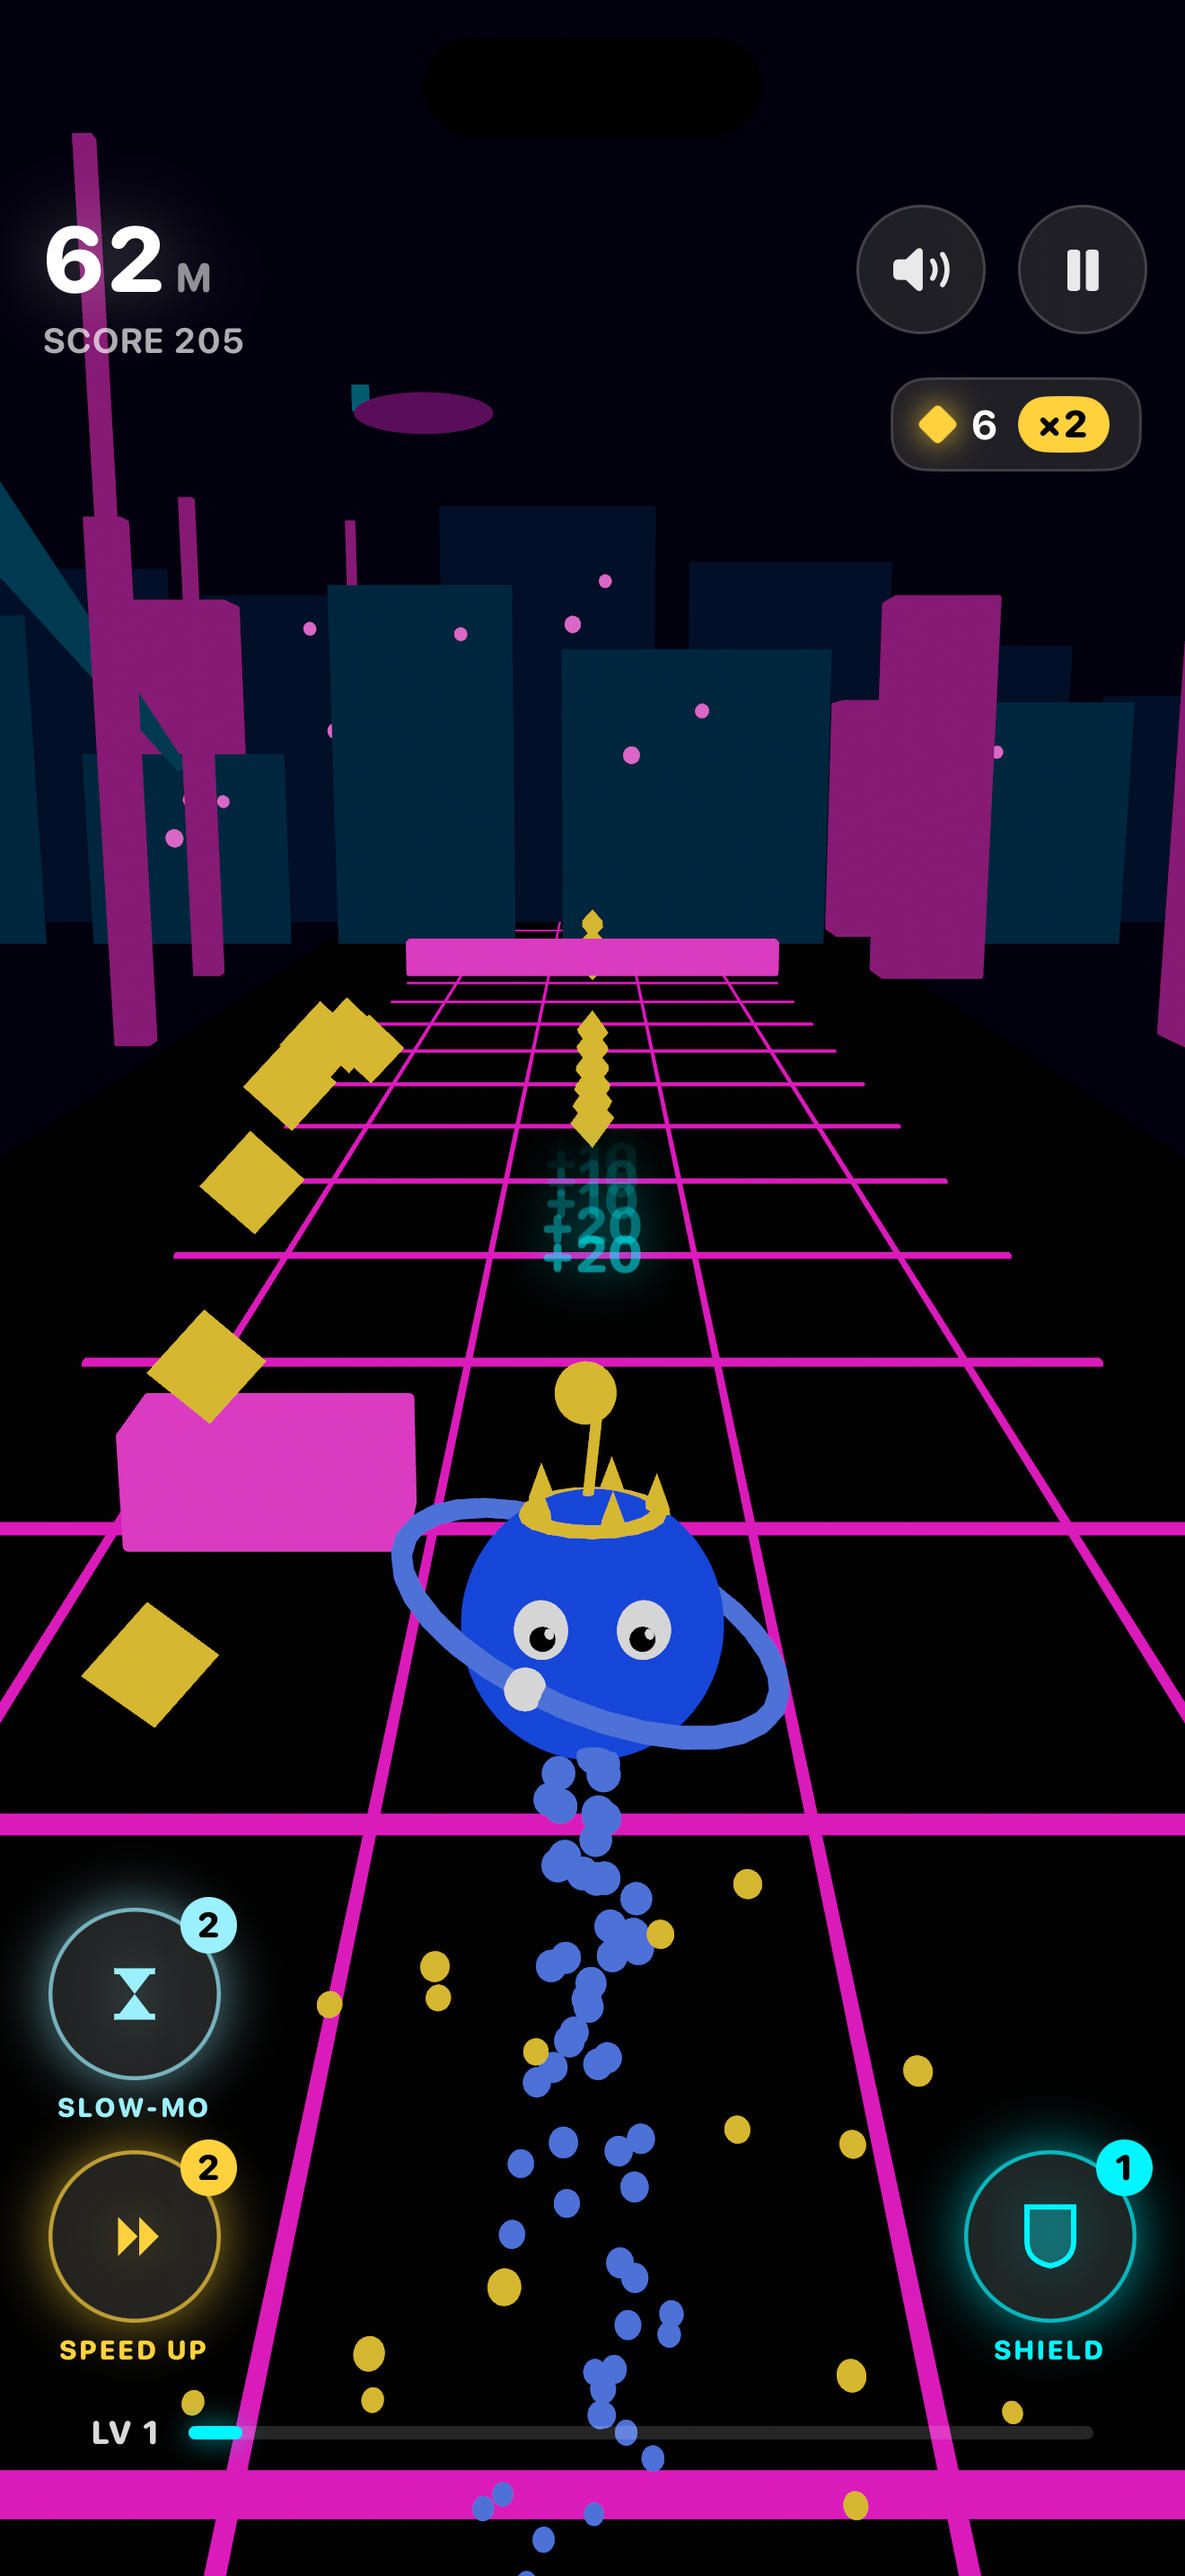
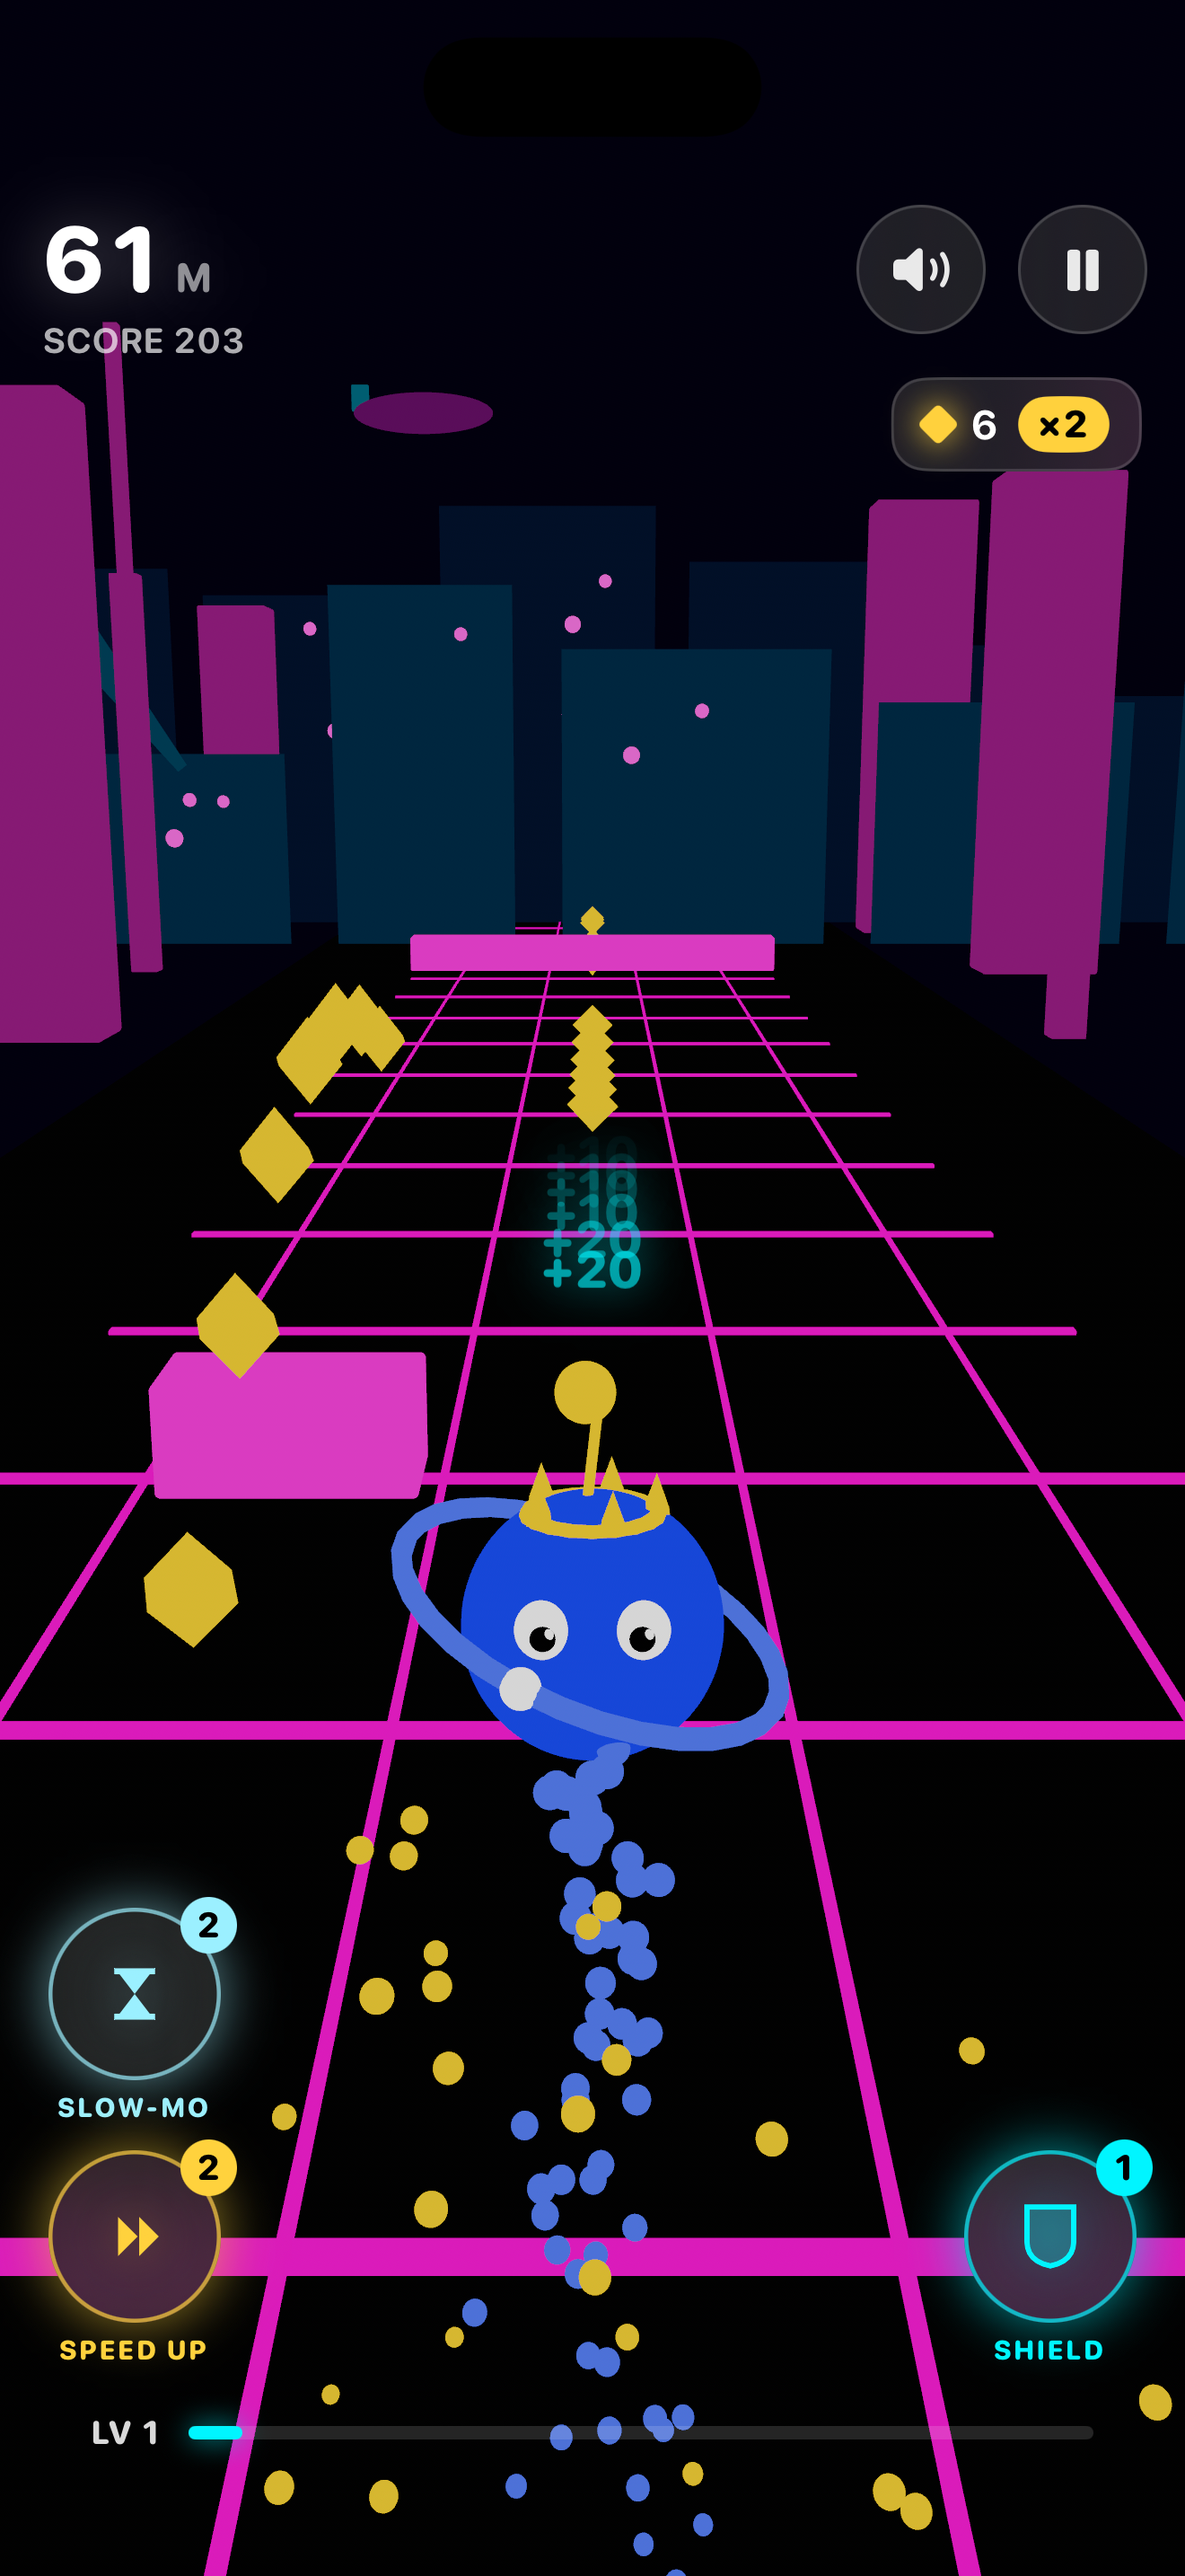
fix(v1.6): revert longer-track backdrop — it broke the per-world horizons
The v1.6 'longer track' (backdrop -65 -> -95) shoved the runway BEHIND each world's bespoke
WorldSky set-pieces (Orbital Drift II's planet limb floated mid-track and read as cut-off /
broken; same class of issue on others) — regressing the worlds the owner had called perfect.
Restored the backdrop to its tuned -65 so all 12 worlds are polished again. Verified Orbital
Drift II, Ashfall and Solar Sands now sit cleanly at the horizon. Re-captured the README
walkthrough on the corrected build and removed the now-inaccurate 'longer/deep track' claims.
(Camera follow + bigger buttons from that round are kept — unaffected.) A genuinely longer
track would need each WorldSky's depth repositioned in lockstep — deferred.

diff --git a/PrismRush/Render/Reality/RealityRenderer.swift b/PrismRush/Render/Reality/RealityRenderer.swift
@@ -748,12 +748,13 @@ final class RealityRenderer: RendererPort {
         camera.look(at: SIMD3<Float>(0, 1.3, -5), from: camera.position, relativeTo: nil)
         root.addChild(camera)
 
-        // Pushed back -65 → -95 (v1.6, owner): the backdrop wall is the visible horizon, and at -65
-        // it cut the track off mid-screen. Further back, more of the (already-drawn) ground/rungs/
-        // decor recede into the distance before the wall — a longer track. Enlarged ~1.45× so it
-        // still fills the wider/taller frustum at the greater distance (no edges in frame).
-        backdrop = ModelEntity(mesh: .generatePlane(width: 200, height: 130), materials: [UnlitMaterial(color: .black)])
-        backdrop.position = SIMD3<Float>(0, 12, -95)
+        // The backdrop wall IS the per-world horizon: the bespoke WorldSky set-pieces (Orbital's
+        // planet limb, Solar's sun, Ashfall's volcano…) are tuned to sit right at it. Pushing it back
+        // (the v1.6 "longer track" experiment at -95) shoved the track BEHIND those set-pieces, so
+        // they floated mid-track and read as broken. Restored to the tuned -65 so every world stays
+        // polished — a longer track would need each WorldSky's depth repositioned in lockstep.
+        backdrop = ModelEntity(mesh: .generatePlane(width: 140, height: 90), materials: [UnlitMaterial(color: .black)])
+        backdrop.position = SIMD3<Float>(0, 12, -65)
         root.addChild(backdrop)
 
         let ground = ModelEntity(mesh: .generatePlane(width: 16, depth: 260), materials: [UnlitMaterial(color: UIColor(white: 0.02, alpha: 1))])

diff --git a/README.md b/README.md
@@ -52,7 +52,7 @@ with the world (decree 1).
 <table>
 <tr>
 <td align="center"><img src="docs/screenshots/01_menu.png" width="210"><br><sub><b>1 · Hub</b><br>Equipped character, pre-run loadout, FURTHEST → Worlds chip</sub></td>
-<td align="center"><img src="docs/screenshots/02_pulse.png" width="210"><br><sub><b>2 · Pulse City</b><br>Neon skyline, deep track, deploy buttons + coin trail</sub></td>
+<td align="center"><img src="docs/screenshots/02_pulse.png" width="210"><br><sub><b>2 · Pulse City</b><br>Neon skyline, deploy buttons + coin trail</sub></td>
 <td align="center"><img src="docs/screenshots/03_sands.png" width="210"><br><sub><b>3 · Solar Sands</b><br>Coins thread the safe gap between the walls</sub></td>
 </tr>
 <tr>
@@ -326,7 +326,7 @@ A large, multi-round, owner-driven pass — fed by live play sessions — that m
 - **Feel + fairness.** A 5-agent audit found the catalogue's one human-unfair adjacency (a slide→jump
   in the gauntlet) and widened it; anti-repeat now avoids the last *two* patterns (less repetitive);
   one consistent in-run music bed (no jarring per-world switches); the **camera follows high/boots
-  jumps**; the track draws **further into the distance**; bigger, easier pause/mute buttons.
+  jumps** so a tall leap stays framed; bigger, easier pause/mute buttons.
 - **World select asks first** — tapping a world expands into a PLAY-confirm card instead of launching
   instantly; the hub's "FURTHEST → Worlds" chip no longer masquerades as the current world.
 - **Verified responsive** iPhone SE (375×667) → 17 Pro Max, iPhone-only + portrait-locked. A 20-agent
@@ -490,7 +490,7 @@ Built phase-by-phase, each gate verified by a real build + on-device screenshot 
 | E6 | Sign in with Apple + Game Center friends leaderboard | ✅ |
 | — | **v1.2 multi-agent overhaul** — Linux CI, bug sweep, new content, perf, a11y (see above) | ✅ |
 | — | **v1.3 → v1.5** — characters, progression, 12 evolving worlds, the power-up suite (see above) | ✅ |
-| — | **v1.6 Power-ups, Polish & Progression** — rarity crests/auras, character carousel, bespoke glyphs + Power-Ups catalog, coin-path routing, gauntlet fairness, camera follow, longer track, one music bed, world-confirm card, 20-agent QA pass, responsive SE → 17 Pro Max | ✅ |
+| — | **v1.6 Power-ups, Polish & Progression** — rarity crests/auras, character carousel, bespoke glyphs + Power-Ups catalog, coin-path routing, gauntlet fairness, camera follow, one music bed, world-confirm card, 20-agent QA pass, responsive SE → 17 Pro Max | ✅ |
 | — | Mac build + full suite (**196 green**) + visual/on-device pass | ✅ |
 | — | App Store archive · live IAP / accounts | ⏳ needs your Apple Developer account — full guide in [`docs/APP_STORE_SETUP.md`](docs/APP_STORE_SETUP.md) |
 

diff --git a/state.md b/state.md
@@ -65,9 +65,11 @@ All committed locally and built/tested green at each step (SPM 178/Linux; Mac 18
 - **App Store guide** delivered (`docs/APP_STORE_SETUP.md`); owner will do it last.
 - **Placement safe-half** (`50be115`): anti-repeat-2 + coins through pattern 8 (layoutVersion 6→7).
 - Owner play-feedback (`b06a9f2`): **vertical camera follow** for high/boots jumps (eye+look-at rise
-  above the normal apex ~2.82, smoothed, RM-safe — fixes boots flying off the top); **longer track**
-  (backdrop horizon −65→−95 + enlarged, revealing more of the already-drawn ground/rungs/decor; no
-  gaps); **bigger pause/mute** (38→48 pt, kept top-trailing).
+  above the normal apex ~2.82, smoothed, RM-safe — fixes boots flying off the top); **bigger pause/mute**
+  (38→48 pt, kept top-trailing). The "longer track" (backdrop −65→−95) shipped here was **REVERTED next
+  round**: it shoved the track behind the per-world WorldSky set-pieces (Orbital's planet limb floated
+  mid-track), breaking the worlds the owner called "perfect". Backdrop restored to the tuned −65; a
+  longer track would require repositioning each WorldSky's depth in lockstep (deferred).
 - **Responsive audit (#19) — VERIFIED, no fix needed:** app is iPhone-only (`TARGETED_DEVICE_FAMILY 1`)
   + portrait-locked. Captured on iPhone SE 3 (375×667, the smallest iOS-18 device) AND 17 Pro Max:
   menu, in-run, characters carousel, shop, and game-over all fit/scroll with no clipping/overlap.
